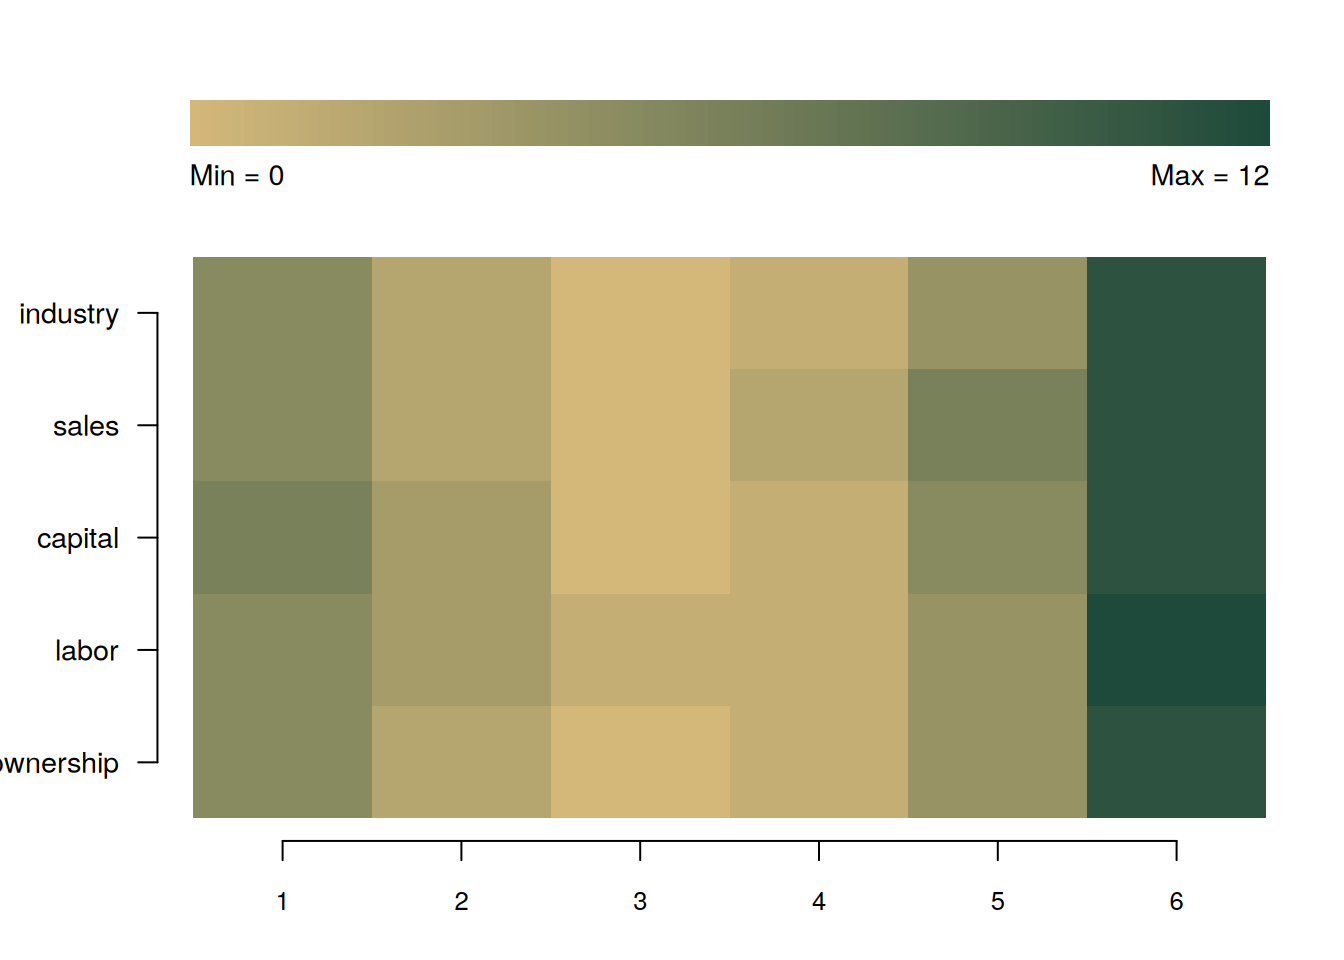
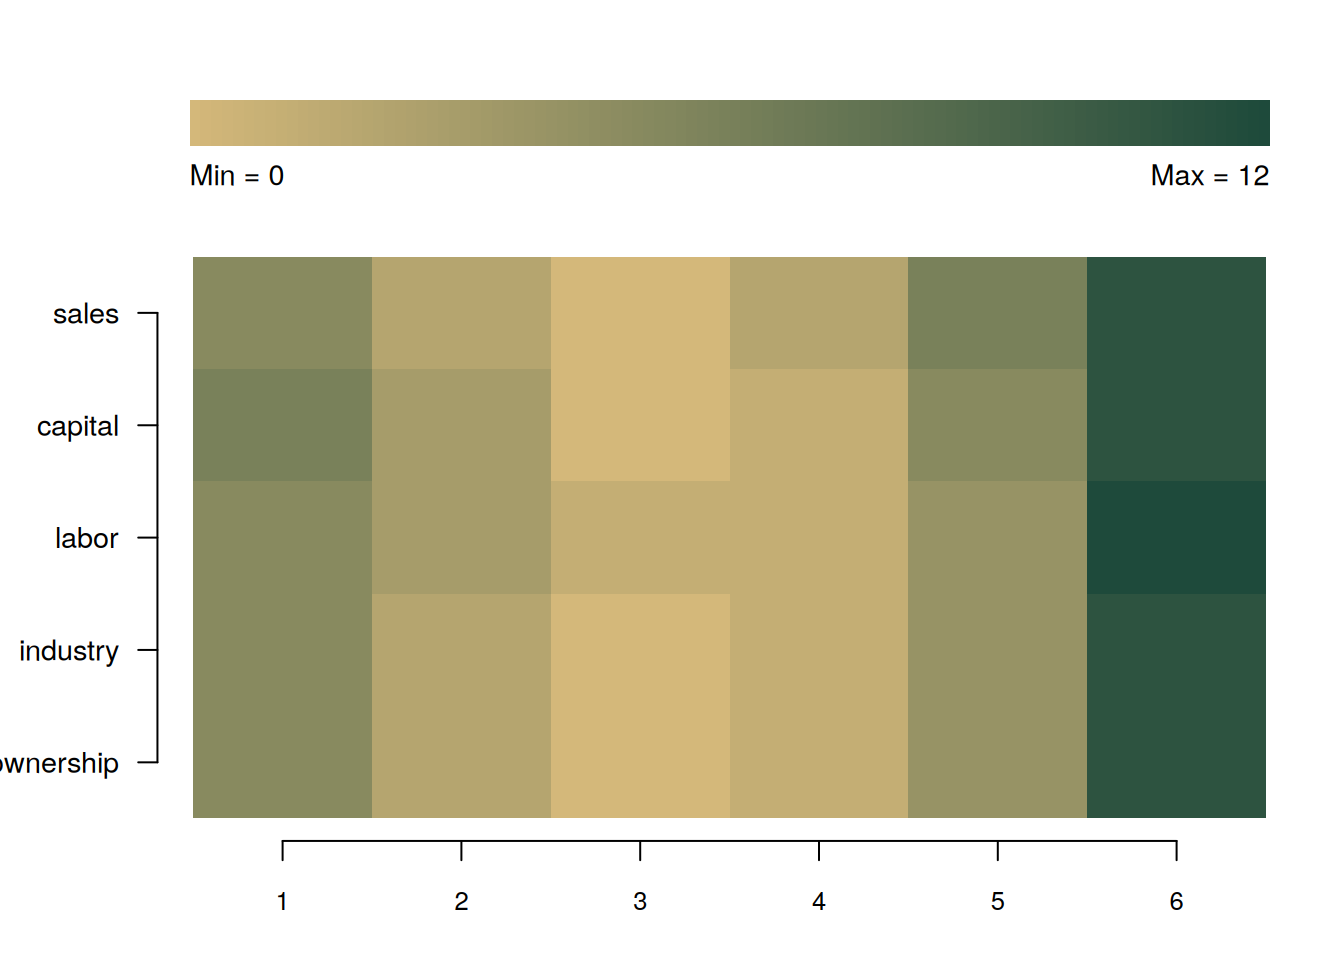
Render with updated data

diff --git a/docs/05_comparison.html b/docs/05_comparison.html
@@ -413,8 +413,8 @@ pre > code.sourceCode > span > a:first-child::before { text-decoration: underlin
 
     <script>
 
-      function styleCell_zru9tt9iwx7t7pklft2b(i, j, css_id) {
-          var table = document.getElementById("tinytable_zru9tt9iwx7t7pklft2b");
+      function styleCell_eayer5z0vsndipg2nt4m(i, j, css_id) {
+          var table = document.getElementById("tinytable_eayer5z0vsndipg2nt4m");
           var cell = table.rows[i]?.cells[j];  // Safe navigation to avoid errors
           if (cell) {
               console.log(`Styling cell at (${i}, ${j}) with class ${css_id}`);
@@ -424,7 +424,7 @@ pre > code.sourceCode > span > a:first-child::before { text-decoration: underlin
           }
       }
       function insertSpanRow(i, colspan, content) {
-        var table = document.getElementById('tinytable_zru9tt9iwx7t7pklft2b');
+        var table = document.getElementById('tinytable_eayer5z0vsndipg2nt4m');
         var newRow = table.insertRow(i);
         var newCell = newRow.insertCell(0);
         newCell.setAttribute("colspan", colspan);
@@ -432,8 +432,8 @@ pre > code.sourceCode > span > a:first-child::before { text-decoration: underlin
         // this may be unsafe, but innerText does not interpret <br>
         newCell.innerHTML = content;
       }
-      function spanCell_zru9tt9iwx7t7pklft2b(i, j, rowspan, colspan) {
-        var table = document.getElementById("tinytable_zru9tt9iwx7t7pklft2b");
+      function spanCell_eayer5z0vsndipg2nt4m(i, j, rowspan, colspan) {
+        var table = document.getElementById("tinytable_eayer5z0vsndipg2nt4m");
         const targetRow = table.rows[i];
         const targetCell = targetRow.cells[j];
         for (let r = 0; r < rowspan; r++) {
@@ -463,18 +463,18 @@ pre > code.sourceCode > span > a:first-child::before { text-decoration: underlin
       window.addEventListener('load', function () {
           var cellsToStyle = [
             // tinytable style arrays after
-          { positions: [ { i: 12, j: 2 }, { i: 12, j: 3 }, { i: 12, j: 4 }, { i: 12, j: 5 }, { i: 12, j: 6 },  ], css_id: 'tinytable_css_5rt0twqsnuf0v3bnkcrj',}, 
-          { positions: [ { i: 1, j: 2 }, { i: 2, j: 2 }, { i: 3, j: 2 }, { i: 4, j: 2 }, { i: 5, j: 2 }, { i: 6, j: 2 }, { i: 7, j: 2 }, { i: 8, j: 2 }, { i: 9, j: 2 }, { i: 10, j: 2 }, { i: 11, j: 2 }, { i: 3, j: 3 }, { i: 4, j: 3 }, { i: 1, j: 3 }, { i: 2, j: 3 }, { i: 7, j: 3 }, { i: 8, j: 3 }, { i: 5, j: 3 }, { i: 6, j: 3 }, { i: 11, j: 3 }, { i: 3, j: 4 }, { i: 9, j: 3 }, { i: 10, j: 3 }, { i: 2, j: 4 }, { i: 7, j: 4 }, { i: 4, j: 4 }, { i: 1, j: 4 }, { i: 6, j: 4 }, { i: 11, j: 4 }, { i: 8, j: 4 }, { i: 5, j: 4 }, { i: 10, j: 4 }, { i: 2, j: 5 }, { i: 3, j: 5 }, { i: 9, j: 4 }, { i: 1, j: 5 }, { i: 6, j: 5 }, { i: 7, j: 5 }, { i: 4, j: 5 }, { i: 5, j: 5 }, { i: 10, j: 5 }, { i: 11, j: 5 }, { i: 8, j: 5 }, { i: 9, j: 5 }, { i: 1, j: 6 }, { i: 2, j: 6 }, { i: 3, j: 6 }, { i: 4, j: 6 }, { i: 5, j: 6 }, { i: 6, j: 6 }, { i: 7, j: 6 }, { i: 8, j: 6 }, { i: 9, j: 6 }, { i: 10, j: 6 }, { i: 11, j: 6 },  ], css_id: 'tinytable_css_eg2e6armr1u95rhd9nm7',}, 
-          { positions: [ { i: 0, j: 2 }, { i: 0, j: 3 }, { i: 0, j: 4 }, { i: 0, j: 5 }, { i: 0, j: 6 },  ], css_id: 'tinytable_css_exoknsknv9oh419s2nzg',}, 
-          { positions: [ { i: 12, j: 0 }, { i: 12, j: 1 },  ], css_id: 'tinytable_css_gnh80tccklsjnsi4fvdu',}, 
-          { positions: [ { i: 2, j: 0 }, { i: 3, j: 0 }, { i: 4, j: 0 }, { i: 1, j: 0 }, { i: 6, j: 0 }, { i: 7, j: 0 }, { i: 8, j: 0 }, { i: 5, j: 0 }, { i: 10, j: 0 }, { i: 11, j: 0 }, { i: 3, j: 1 }, { i: 9, j: 0 }, { i: 1, j: 1 }, { i: 2, j: 1 }, { i: 7, j: 1 }, { i: 4, j: 1 }, { i: 5, j: 1 }, { i: 6, j: 1 }, { i: 11, j: 1 }, { i: 8, j: 1 }, { i: 9, j: 1 }, { i: 10, j: 1 },  ], css_id: 'tinytable_css_r1rxd04ac4rjpw7xndgv',}, 
-          { positions: [ { i: 0, j: 0 }, { i: 0, j: 1 },  ], css_id: 'tinytable_css_sg4juytbocpv4igj29d2',}, 
+          { positions: [ { i: 12, j: 2 }, { i: 12, j: 3 }, { i: 12, j: 4 }, { i: 12, j: 5 }, { i: 12, j: 6 },  ], css_id: 'tinytable_css_ctzarwq4a1k32hfefloc',}, 
+          { positions: [ { i: 1, j: 2 }, { i: 2, j: 2 }, { i: 3, j: 2 }, { i: 4, j: 2 }, { i: 5, j: 2 }, { i: 6, j: 2 }, { i: 7, j: 2 }, { i: 8, j: 2 }, { i: 9, j: 2 }, { i: 10, j: 2 }, { i: 11, j: 2 }, { i: 3, j: 3 }, { i: 4, j: 3 }, { i: 1, j: 3 }, { i: 2, j: 3 }, { i: 7, j: 3 }, { i: 8, j: 3 }, { i: 5, j: 3 }, { i: 6, j: 3 }, { i: 11, j: 3 }, { i: 3, j: 4 }, { i: 9, j: 3 }, { i: 10, j: 3 }, { i: 2, j: 4 }, { i: 7, j: 4 }, { i: 4, j: 4 }, { i: 1, j: 4 }, { i: 6, j: 4 }, { i: 11, j: 4 }, { i: 8, j: 4 }, { i: 5, j: 4 }, { i: 10, j: 4 }, { i: 2, j: 5 }, { i: 3, j: 5 }, { i: 9, j: 4 }, { i: 1, j: 5 }, { i: 6, j: 5 }, { i: 7, j: 5 }, { i: 4, j: 5 }, { i: 5, j: 5 }, { i: 10, j: 5 }, { i: 11, j: 5 }, { i: 8, j: 5 }, { i: 9, j: 5 }, { i: 1, j: 6 }, { i: 2, j: 6 }, { i: 3, j: 6 }, { i: 4, j: 6 }, { i: 5, j: 6 }, { i: 6, j: 6 }, { i: 7, j: 6 }, { i: 8, j: 6 }, { i: 9, j: 6 }, { i: 10, j: 6 }, { i: 11, j: 6 },  ], css_id: 'tinytable_css_38lexf2drurlphnzwuis',}, 
+          { positions: [ { i: 0, j: 2 }, { i: 0, j: 3 }, { i: 0, j: 4 }, { i: 0, j: 5 }, { i: 0, j: 6 },  ], css_id: 'tinytable_css_9nwmwcn9n9e0n6u7or8i',}, 
+          { positions: [ { i: 12, j: 0 }, { i: 12, j: 1 },  ], css_id: 'tinytable_css_7muk10lsjsmtv934wm10',}, 
+          { positions: [ { i: 2, j: 0 }, { i: 3, j: 0 }, { i: 4, j: 0 }, { i: 1, j: 0 }, { i: 6, j: 0 }, { i: 7, j: 0 }, { i: 8, j: 0 }, { i: 5, j: 0 }, { i: 10, j: 0 }, { i: 11, j: 0 }, { i: 3, j: 1 }, { i: 9, j: 0 }, { i: 1, j: 1 }, { i: 2, j: 1 }, { i: 7, j: 1 }, { i: 4, j: 1 }, { i: 5, j: 1 }, { i: 6, j: 1 }, { i: 11, j: 1 }, { i: 8, j: 1 }, { i: 9, j: 1 }, { i: 10, j: 1 },  ], css_id: 'tinytable_css_9qnwhku7f8gi4jd7vtqf',}, 
+          { positions: [ { i: 0, j: 0 }, { i: 0, j: 1 },  ], css_id: 'tinytable_css_n9wuxapcyfxhnhket72t',}, 
           ];
 
           // Loop over the arrays to style the cells
           cellsToStyle.forEach(function (group) {
               group.positions.forEach(function (cell) {
-                  styleCell_zru9tt9iwx7t7pklft2b(cell.i, cell.j, group.css_id);
+                  styleCell_eayer5z0vsndipg2nt4m(cell.i, cell.j, group.css_id);
               });
           });
       });
@@ -482,15 +482,15 @@ pre > code.sourceCode > span > a:first-child::before { text-decoration: underlin
 
     <style>
       /* tinytable css entries after */
-      .table td.tinytable_css_5rt0twqsnuf0v3bnkcrj, .table th.tinytable_css_5rt0twqsnuf0v3bnkcrj { text-align: right; border-bottom: solid #d3d8dc 0.1em; }
-      .table td.tinytable_css_eg2e6armr1u95rhd9nm7, .table th.tinytable_css_eg2e6armr1u95rhd9nm7 { text-align: right; }
-      .table td.tinytable_css_exoknsknv9oh419s2nzg, .table th.tinytable_css_exoknsknv9oh419s2nzg { text-align: right; border-top: solid #d3d8dc 0.1em; border-bottom: solid #d3d8dc 0.05em; }
-      .table td.tinytable_css_gnh80tccklsjnsi4fvdu, .table th.tinytable_css_gnh80tccklsjnsi4fvdu { text-align: left; border-bottom: solid #d3d8dc 0.1em; }
-      .table td.tinytable_css_r1rxd04ac4rjpw7xndgv, .table th.tinytable_css_r1rxd04ac4rjpw7xndgv { text-align: left; }
-      .table td.tinytable_css_sg4juytbocpv4igj29d2, .table th.tinytable_css_sg4juytbocpv4igj29d2 { text-align: left; border-top: solid #d3d8dc 0.1em; border-bottom: solid #d3d8dc 0.05em; }
+      .table td.tinytable_css_ctzarwq4a1k32hfefloc, .table th.tinytable_css_ctzarwq4a1k32hfefloc { text-align: right; border-bottom: solid #d3d8dc 0.1em; }
+      .table td.tinytable_css_38lexf2drurlphnzwuis, .table th.tinytable_css_38lexf2drurlphnzwuis { text-align: right; }
+      .table td.tinytable_css_9nwmwcn9n9e0n6u7or8i, .table th.tinytable_css_9nwmwcn9n9e0n6u7or8i { text-align: right; border-top: solid #d3d8dc 0.1em; border-bottom: solid #d3d8dc 0.05em; }
+      .table td.tinytable_css_7muk10lsjsmtv934wm10, .table th.tinytable_css_7muk10lsjsmtv934wm10 { text-align: left; border-bottom: solid #d3d8dc 0.1em; }
+      .table td.tinytable_css_9qnwhku7f8gi4jd7vtqf, .table th.tinytable_css_9qnwhku7f8gi4jd7vtqf { text-align: left; }
+      .table td.tinytable_css_n9wuxapcyfxhnhket72t, .table th.tinytable_css_n9wuxapcyfxhnhket72t { text-align: left; border-top: solid #d3d8dc 0.1em; border-bottom: solid #d3d8dc 0.05em; }
     </style>
     <div class="container">
-      <table class="table table-borderless" id="tinytable_zru9tt9iwx7t7pklft2b" style="width: auto; margin-left: auto; margin-right: auto;" data-quarto-disable-processing="true">
+      <table class="table table-borderless" id="tinytable_eayer5z0vsndipg2nt4m" style="width: auto; margin-left: auto; margin-right: auto;" data-quarto-disable-processing="true">
         <thead>
         
               <tr>

diff --git a/docs/03_extend.html b/docs/03_extend.html
@@ -498,10 +498,10 @@ pre > code.sourceCode > span > a:first-child::before { text-decoration: underlin
 <th style="text-align: right;">firm</th>
 <th style="text-align: right;">na_count</th>
 <th style="text-align: right;">variables</th>
-<th style="text-align: right;">industry</th>
 <th style="text-align: right;">sales</th>
 <th style="text-align: right;">capital</th>
 <th style="text-align: right;">labor</th>
+<th style="text-align: right;">industry</th>
 <th style="text-align: right;">ownership</th>
 </tr>
 </thead>
@@ -520,8 +520,8 @@ pre > code.sourceCode > span > a:first-child::before { text-decoration: underlin
 <td style="text-align: right;">21</td>
 <td style="text-align: right;">11</td>
 <td style="text-align: right;">5</td>
-<td style="text-align: right;">2</td>
 <td style="text-align: right;">3</td>
+<td style="text-align: right;">2</td>
 <td style="text-align: right;">2</td>
 <td style="text-align: right;">2</td>
 <td style="text-align: right;">2</td>
@@ -592,16 +592,16 @@ pre > code.sourceCode > span > a:first-child::before { text-decoration: underlin
 <td style="text-align: right;">5</td>
 <td style="text-align: right;">1</td>
 <td style="text-align: right;">1</td>
-<td style="text-align: right;">1</td>
 <td style="text-align: right;">2</td>
+<td style="text-align: right;">1</td>
 <td style="text-align: right;">1</td>
 </tr>
 <tr class="even">
 <td style="text-align: right;">30</td>
 <td style="text-align: right;">6</td>
 <td style="text-align: right;">5</td>
-<td style="text-align: right;">1</td>
 <td style="text-align: right;">2</td>
+<td style="text-align: right;">1</td>
 <td style="text-align: right;">1</td>
 <td style="text-align: right;">1</td>
 <td style="text-align: right;">1</td>
@@ -651,9 +651,9 @@ pre > code.sourceCode > span > a:first-child::before { text-decoration: underlin
 <td style="text-align: right;">2</td>
 <td style="text-align: right;">2</td>
 <td style="text-align: right;">0</td>
+<td style="text-align: right;">1</td>
+<td style="text-align: right;">1</td>
 <td style="text-align: right;">0</td>
-<td style="text-align: right;">1</td>
-<td style="text-align: right;">1</td>
 <td style="text-align: right;">0</td>
 </tr>
 <tr class="even">
@@ -662,8 +662,8 @@ pre > code.sourceCode > span > a:first-child::before { text-decoration: underlin
 <td style="text-align: right;">1</td>
 <td style="text-align: right;">0</td>
 <td style="text-align: right;">0</td>
-<td style="text-align: right;">0</td>
 <td style="text-align: right;">1</td>
+<td style="text-align: right;">0</td>
 <td style="text-align: right;">0</td>
 </tr>
 <tr class="odd">
@@ -671,8 +671,8 @@ pre > code.sourceCode > span > a:first-child::before { text-decoration: underlin
 <td style="text-align: right;">1</td>
 <td style="text-align: right;">1</td>
 <td style="text-align: right;">0</td>
-<td style="text-align: right;">0</td>
 <td style="text-align: right;">1</td>
+<td style="text-align: right;">0</td>
 <td style="text-align: right;">0</td>
 <td style="text-align: right;">0</td>
 </tr>
@@ -680,8 +680,8 @@ pre > code.sourceCode > span > a:first-child::before { text-decoration: underlin
 <td style="text-align: right;">14</td>
 <td style="text-align: right;">1</td>
 <td style="text-align: right;">1</td>
-<td style="text-align: right;">0</td>
 <td style="text-align: right;">1</td>
+<td style="text-align: right;">0</td>
 <td style="text-align: right;">0</td>
 <td style="text-align: right;">0</td>
 <td style="text-align: right;">0</td>
@@ -691,8 +691,8 @@ pre > code.sourceCode > span > a:first-child::before { text-decoration: underlin
 <td style="text-align: right;">1</td>
 <td style="text-align: right;">1</td>
 <td style="text-align: right;">0</td>
-<td style="text-align: right;">0</td>
 <td style="text-align: right;">1</td>
+<td style="text-align: right;">0</td>
 <td style="text-align: right;">0</td>
 <td style="text-align: right;">0</td>
 </tr>

diff --git a/docs/01_basic.html b/docs/01_basic.html
@@ -484,7 +484,7 @@ pre > code.sourceCode > span > a:first-child::before { text-decoration: underlin
 <div class="cell">
 <div class="sourceCode cell-code" id="cb9"><pre class="sourceCode r code-with-copy"><code class="sourceCode r"><span id="cb9-1"><a href="#cb9-1" aria-hidden="true" tabindex="-1"></a><span class="fu">plot_missing</span>(production, <span class="at">index =</span> <span class="fu">c</span>(<span class="st">"firm"</span>, <span class="st">"year"</span>))</span></code><button title="Copy to Clipboard" class="code-copy-button"><i class="bi"></i></button></pre></div>
 <div class="cell-output cell-output-stderr">
-<pre><code>Analysing all variables: industry, sales, capital, labor, ownership</code></pre>
+<pre><code>Analysing all variables: sales, capital, labor, industry, ownership</code></pre>
 </div>
 <div class="cell-output-display">
 <div>
@@ -498,7 +498,7 @@ pre > code.sourceCode > span > a:first-child::before { text-decoration: underlin
 <div class="cell">
 <div class="sourceCode cell-code" id="cb11"><pre class="sourceCode r code-with-copy"><code class="sourceCode r"><span id="cb11-1"><a href="#cb11-1" aria-hidden="true" tabindex="-1"></a><span class="fu">summarize_missing</span>(production, <span class="at">index =</span> <span class="fu">c</span>(<span class="st">"firm"</span>, <span class="st">"year"</span>))</span></code><button title="Copy to Clipboard" class="code-copy-button"><i class="bi"></i></button></pre></div>
 <div class="cell-output cell-output-stderr">
-<pre><code>Analyzing all variables: industry, sales, capital, labor, ownership</code></pre>
+<pre><code>Analyzing all variables: sales, capital, labor, industry, ownership</code></pre>
 </div>
 <div class="cell-output-display">
 <div class="kable-table">
@@ -514,32 +514,32 @@ pre > code.sourceCode > span > a:first-child::before { text-decoration: underlin
 </thead>
 <tbody>
 <tr class="odd">
-<td style="text-align: left;">industry</td>
-<td style="text-align: right;">23</td>
-<td style="text-align: right;">0.128</td>
-<td style="text-align: right;">14</td>
-<td style="text-align: right;">5</td>
-</tr>
-<tr class="even">
 <td style="text-align: left;">sales</td>
 <td style="text-align: right;">26</td>
 <td style="text-align: right;">0.144</td>
 <td style="text-align: right;">15</td>
 <td style="text-align: right;">5</td>
 </tr>
-<tr class="odd">
+<tr class="even">
 <td style="text-align: left;">capital</td>
 <td style="text-align: right;">26</td>
 <td style="text-align: right;">0.144</td>
 <td style="text-align: right;">17</td>
 <td style="text-align: right;">5</td>
 </tr>
-<tr class="even">
+<tr class="odd">
 <td style="text-align: left;">labor</td>
 <td style="text-align: right;">26</td>
 <td style="text-align: right;">0.144</td>
 <td style="text-align: right;">16</td>
 <td style="text-align: right;">6</td>
+</tr>
+<tr class="even">
+<td style="text-align: left;">industry</td>
+<td style="text-align: right;">23</td>
+<td style="text-align: right;">0.128</td>
+<td style="text-align: right;">14</td>
+<td style="text-align: right;">5</td>
 </tr>
 <tr class="odd">
 <td style="text-align: left;">ownership</td>

diff --git a/docs/02_panel.html b/docs/02_panel.html
@@ -488,7 +488,7 @@ pre > code.sourceCode > span > a:first-child::before { text-decoration: underlin
 <div class="cell">
 <div class="sourceCode cell-code" id="cb10"><pre class="sourceCode r code-with-copy"><code class="sourceCode r"><span id="cb10-1"><a href="#cb10-1" aria-hidden="true" tabindex="-1"></a><span class="fu">plot_missing</span>(panel)</span></code><button title="Copy to Clipboard" class="code-copy-button"><i class="bi"></i></button></pre></div>
 <div class="cell-output cell-output-stderr">
-<pre><code>Analysing all variables: industry, sales, capital, labor, ownership</code></pre>
+<pre><code>Analysing all variables: sales, capital, labor, industry, ownership</code></pre>
 </div>
 <div class="cell-output-display">
 <div>
@@ -502,7 +502,7 @@ pre > code.sourceCode > span > a:first-child::before { text-decoration: underlin
 <div class="cell">
 <div class="sourceCode cell-code" id="cb12"><pre class="sourceCode r code-with-copy"><code class="sourceCode r"><span id="cb12-1"><a href="#cb12-1" aria-hidden="true" tabindex="-1"></a><span class="fu">summarize_missing</span>(panel)</span></code><button title="Copy to Clipboard" class="code-copy-button"><i class="bi"></i></button></pre></div>
 <div class="cell-output cell-output-stderr">
-<pre><code>Analyzing all variables: industry, sales, capital, labor, ownership</code></pre>
+<pre><code>Analyzing all variables: sales, capital, labor, industry, ownership</code></pre>
 </div>
 <div class="cell-output-display">
 <div class="kable-table">
@@ -518,32 +518,32 @@ pre > code.sourceCode > span > a:first-child::before { text-decoration: underlin
 </thead>
 <tbody>
 <tr class="odd">
-<td style="text-align: left;">industry</td>
-<td style="text-align: right;">23</td>
-<td style="text-align: right;">0.128</td>
-<td style="text-align: right;">14</td>
-<td style="text-align: right;">5</td>
-</tr>
-<tr class="even">
 <td style="text-align: left;">sales</td>
 <td style="text-align: right;">26</td>
 <td style="text-align: right;">0.144</td>
 <td style="text-align: right;">15</td>
 <td style="text-align: right;">5</td>
 </tr>
-<tr class="odd">
+<tr class="even">
 <td style="text-align: left;">capital</td>
 <td style="text-align: right;">26</td>
 <td style="text-align: right;">0.144</td>
 <td style="text-align: right;">17</td>
 <td style="text-align: right;">5</td>
 </tr>
-<tr class="even">
+<tr class="odd">
 <td style="text-align: left;">labor</td>
 <td style="text-align: right;">26</td>
 <td style="text-align: right;">0.144</td>
 <td style="text-align: right;">16</td>
 <td style="text-align: right;">6</td>
+</tr>
+<tr class="even">
+<td style="text-align: left;">industry</td>
+<td style="text-align: right;">23</td>
+<td style="text-align: right;">0.128</td>
+<td style="text-align: right;">14</td>
+<td style="text-align: right;">5</td>
 </tr>
 <tr class="odd">
 <td style="text-align: left;">ownership</td>
